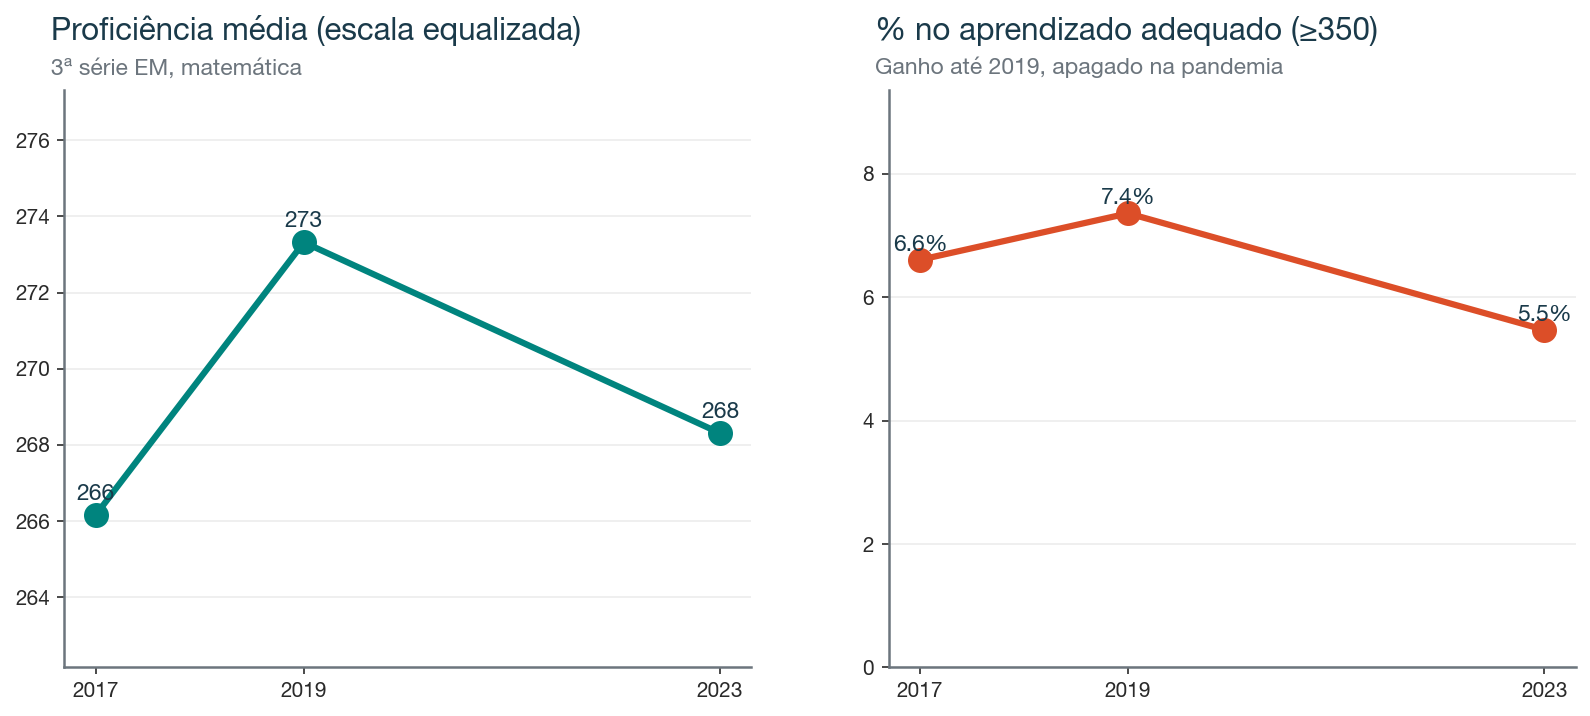
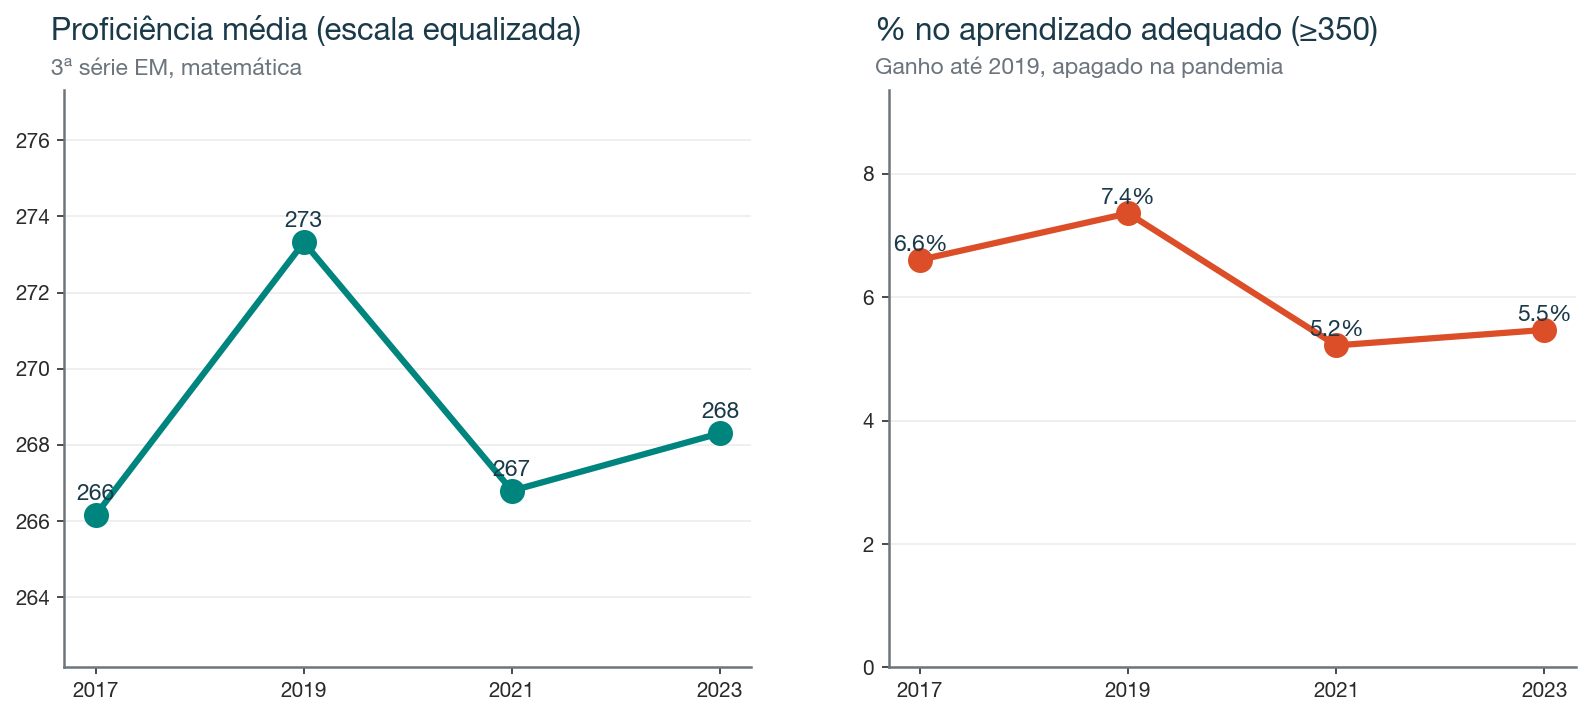
Inclui SAEB 2021 (4º censo): pipeline, figuras e artigo atualizados
- 2021 baixado (nome próprio no host) e consolidado: N=1.399.839, corr 0,95.
  Schema = 2019 (;, nomes novos, item série EM=12) + INSE presente.
- Série temporal completa (4 pontos): proficiência 266→273→267→268; adequado
  6,6→7,4→5,2→5,5%. 2019 pico, 2021 fundo da pandemia, 2023 sem recuperação.
- Figuras de evolução regeneradas; artigo (Cap 1) atualizado para os 4 censos.
- DECISOES/PROJECT atualizados.

diff --git a/outputs/site/index.html b/outputs/site/index.html
@@ -3,7 +3,7 @@
 <head>
 <meta charset="UTF-8">
 <meta name="viewport" content="width=device-width, initial-scale=1.0">
-<title>A matemática que falta, no censo: SAEB 2017–2023</title>
+<title>A matemática que falta, no censo: SAEB 2017–2023 (4 censos)</title>
 <link rel="preconnect" href="https://fonts.googleapis.com">
 <link href="https://fonts.googleapis.com/css2?family=Inter:wght@400;500;600;700;800;900&display=swap" rel="stylesheet">
 <style>
@@ -44,7 +44,7 @@
 
 <main class="wrap">
 
-<p>Três edições censitárias, mesma metodologia: <strong>2017, 2019 e 2023</strong>, cerca de 1,5 milhão de concluintes do EM em cada uma, com prova de matemática válida. Para cada aluno, escoreamos as respostas item a item, ligamos cada item à habilidade que ele mede (o descritor da Matriz de Referência) e estratificamos pela proficiência. O método é o mesmo do artigo do ENEM. As decisões estão em <code>DECISOES.md</code>.</p>
+<p>Quatro edições censitárias, mesma metodologia: <strong>2017, 2019, 2021 e 2023</strong>, cerca de 1,4 a 1,5 milhão de concluintes do EM em cada uma, com prova de matemática válida. Para cada aluno, escoreamos as respostas item a item, ligamos cada item à habilidade que ele mede (o descritor da Matriz de Referência) e estratificamos pela proficiência. O método é o mesmo do artigo do ENEM. As decisões estão em <code>DECISOES.md</code>.</p>
 
 <hr>
 
@@ -57,7 +57,7 @@
   <figure><img src="figures/fig0_evolucao.png" alt="Evolução da proficiência e do % adequado">
     <figcaption>Proficiência média e percentual no aprendizado adequado (≥350), 2017–2023. Escala SAEB equalizada.</figcaption></figure>
 
-  <p>A proficiência média foi <strong>266 (2017) → 273 (2019) → 268 (2023)</strong>. O aprendizado adequado (≥350) subiu de 6,6% para 7,4% até 2019 e <strong>caiu para 5,5% em 2023</strong>, abaixo de onde estava em 2017. Houve um ganho pequeno na segunda metade da década passada, e a pandemia o apagou.</p>
+  <p>A proficiência média foi <strong>266 (2017) → 273 (2019) → 267 (2021) → 268 (2023)</strong>. O aprendizado adequado (≥350) subiu de 6,6% para 7,4% até 2019, <strong>despencou para 5,2% em 2021</strong> (o fundo da pandemia) e mal se recuperou em 2023 (5,5%), abaixo de onde estava em 2017. Houve um ganho pequeno na segunda metade da década passada, e a pandemia o apagou.</p>
 
   <figure><img src="figures/fig0b_estratos_tempo.png" alt="Composição por faixa de proficiência ao longo do tempo">
     <figcaption>Distribuição por faixa de proficiência. A faixa abaixo de 275 volta a 58% em 2023.</figcaption></figure>
@@ -87,7 +87,7 @@
     <li><strong>Fora do estrato Alto, quase nada passa de 50%.</strong> No Médio, só Leitura de Dados (75%) e Porcentagem (55%) cruzam a metade.</li>
     <li>Mesmo o topo tem buracos: o Alto acerta Leitura de Dados em 92%, mas Estatística em 45% e Medida em 58%.</li>
   </ul>
-  <p>A <strong>forma</strong> desse perfil é estável nas três edições (Leitura de Dados sempre na frente, abstração sempre atrás). Os níveis absolutos por habilidade não são comparáveis entre anos, porque a composição de itens de cada prova muda; por isso o eixo temporal fica na proficiência equalizada, e o perfil de habilidade é lido dentro de cada ano.</p>
+  <p>A <strong>forma</strong> desse perfil é estável nas quatro edições (Leitura de Dados sempre na frente, abstração sempre atrás). Os níveis absolutos por habilidade não são comparáveis entre anos, porque a composição de itens de cada prova muda; por isso o eixo temporal fica na proficiência equalizada, e o perfil de habilidade é lido dentro de cada ano.</p>
 </section>
 
 <hr>
@@ -135,13 +135,13 @@
 </section>
 
 <div class="nota">
-  <strong>Nota metodológica.</strong> Edições censitárias 2017/2019/2023 (mesma metodologia; 2013/2015 da era Prova Brasil, amostral, ficaram de fora). Escore por item via gabarito; habilidade pelo descritor oficial (single-loading; sem o entrelaçamento multi-habilidade do ENEM). Estratos: Chute (taxa &lt; 0,20), e faixas de proficiência com Alto ≥ 350 (aprendizado adequado). Não há vetor de habilidade por aluno (desenho BIB, ~26 de 91 itens por aluno); toda análise de habilidade é agregada. Validação: correlação entre acerto e proficiência de 0,88 a 0,95 nos três anos. Detalhes e pendências em <code>DECISOES.md</code>.
+  <strong>Nota metodológica.</strong> Edições censitárias 2017/2019/2021/2023 (mesma metodologia; 2013/2015 da era Prova Brasil, amostral, ficaram de fora). Escore por item via gabarito; habilidade pelo descritor oficial (single-loading; sem o entrelaçamento multi-habilidade do ENEM). Estratos: Chute (taxa &lt; 0,20), e faixas de proficiência com Alto ≥ 350 (aprendizado adequado). Não há vetor de habilidade por aluno (desenho BIB, ~26 de 91 itens por aluno); toda análise de habilidade é agregada. Validação: correlação entre acerto e proficiência de 0,88 a 0,95 nos quatro anos. Detalhes e pendências em <code>DECISOES.md</code>.
 </div>
 
 </main>
 
 <footer><div class="wrap">
-  Fontes: Microdados SAEB (INEP), 2017/2019/2023. Pipeline em <code>scripts/</code>. Projeto independente. Rascunho v1.
+  Fontes: Microdados SAEB (INEP), 2017/2019/2021/2023. Pipeline em <code>scripts/</code>. Projeto independente. Rascunho v1.
 </div></footer>
 
 </body>

diff --git a/scripts/build_consolidated.py b/scripts/build_consolidated.py
@@ -43,6 +43,10 @@ SCHEMA = {
         aluno='DADOS/TS_ALUNO_34EM.csv', sep=';',
         item='DADOS/TS_ITEM.csv', item_sep=';', item_serie_em=12,
         col=_COMMON_NEW, item_col=_ITEMCOL_NEW, inse=None),
+    2021: dict(
+        aluno='DADOS/TS_ALUNO_34EM.csv', sep=';',
+        item='DADOS/TS_ITEM.csv', item_sep=';', item_serie_em=12,
+        col=_COMMON_NEW, item_col=_ITEMCOL_NEW, inse='INSE_ALUNO'),
     2023: dict(
         aluno='MICRODADOS_SAEB_2023/DADOS/TS_ALUNO_34EM.csv', sep=';',
         item='MICRODADOS_SAEB_2023/DADOS/TS_ITEM.csv', item_sep=';', item_serie_em=3,

diff --git a/scripts/figuras.py b/scripts/figuras.py
@@ -17,7 +17,7 @@ apply_style()
 
 OUT = ROOT / 'outputs' / 'site' / 'figures'
 OUT.mkdir(parents=True, exist_ok=True)
-ANOS = [2017, 2019, 2023]
+ANOS = [2017, 2019, 2021, 2023]
 df = pd.read_parquet(ROOT / 'data' / 'consolidated_saeb_2023_em.parquet')  # cross-section canônica
 print(f'{len(df):,} alunos (2023)')
 

diff --git a/DECISOES.md b/DECISOES.md
@@ -5,10 +5,10 @@ Tudo aqui é reversível e está parametrizado nos scripts em `scripts/`. Pontos
 marcados com ⚠️ são escolhas que valem revisão.
 
 ## 0. Escopo de edições
-- Edições usadas: **2017, 2019, 2023** (censo EM, mesma metodologia).
-- **Excluídas 2013/2015** (era Prova Brasil, EM amostral, estrutura incompatível). 2021 não estava no host padrão do INEP (URL a resolver).
-- Schemas diferem entre anos (separador `,` em 2017 vs `;`; nomes "Prova Brasil" em 2017; código de série EM no banco de itens = 12 em 2017/2019 e 3 em 2023; INSE só em 2023). Absorvido pelo dicionário `SCHEMA` em `scripts/build_consolidated.py`.
-- **Validação**: correlação acerto×proficiência = 0,93 (2017), 0,95 (2019), 0,88 (2023), confirmando o escoreamento e o mapeamento de blocos em todos os schemas.
+- Edições usadas: **2017, 2019, 2021, 2023** (4 censos EM, mesma metodologia).
+- **Excluídas 2013/2015** (era Prova Brasil, EM amostral, estrutura incompatível). 2021 estava com nome próprio no host (`microdados_saeb_2021_ensino_fundamental_e_medio.zip`).
+- Schemas diferem entre anos (separador `,` em 2017 vs `;`; nomes "Prova Brasil" em 2017; código de série EM no banco de itens = 12 em 2017/2019/2021 e 3 em 2023; INSE em 2021 e 2023, ausente em 2017/2019). Absorvido pelo dicionário `SCHEMA` em `scripts/build_consolidated.py`.
+- **Validação**: correlação acerto×proficiência = 0,93 (2017), 0,95 (2019), 0,95 (2021), 0,88 (2023), confirmando o escoreamento e o mapeamento de blocos em todos os schemas.
 - ⚠️ Descritores `D36`/`D37` (e um `X` de item anulado) aparecem em 2017/2019 e não estão no de-para (vão para OUTRO, ~2 itens/ano fora da agregação por T; contam na taxa). Estender o de-para se quiser.
 
 ## ⚠️ Comparabilidade temporal (importante)

diff --git a/PROJECT.md b/PROJECT.md
@@ -9,7 +9,7 @@ Projeto independente sobre **matemática no SAEB, Ensino Médio, ~10 anos**. Rep
 | 2013 / 2015 | amostral (Prova Brasil) | **fora** (estrutura incompatível) |
 | 2017 | censo | **consolidado** (N=1.456.325, corr taxa×prof 0,93) |
 | 2019 | censo | **consolidado** (N=1.514.938, corr 0,95) |
-| 2021 | censo | URL não achada no host padrão (pendente) |
+| 2021 | censo | **consolidado** (N=1.399.839, corr 0,95) |
 | 2023 | censo | **consolidado** (N=1.525.957, corr 0,88) |
 
 URL: `https://download.inep.gov.br/microdados/microdados_saeb_YYYY.zip`.
@@ -20,13 +20,12 @@ URL: `https://download.inep.gov.br/microdados/microdados_saeb_YYYY.zip`.
 3. **Artigo** em `outputs/site/`.
 
 ## Onde estamos
-- **3 censos consolidados (2017, 2019, 2023)**, scorer generalizado por schema, validado (corr 0,88–0,95).
-- **Evolução (proficiência equalizada)**: média 266 → 273 → 268; adequado (≥350) 6,6% → 7,4% → **5,5%**. Ganho até 2019 apagado pela pandemia. Estagnação na década.
+- **4 censos consolidados (2017, 2019, 2021, 2023)**, scorer generalizado por schema, validado (corr 0,88–0,95).
+- **Evolução (proficiência equalizada)**: média 266 → 273 → 267 → 268; adequado (≥350) 6,6% → 7,4% → 5,2% → **5,5%**. Pico em 2019, fundo da pandemia em 2021, sem recuperação real. Estagnação na década.
 - **Cross-section 2023**: Leitura de Dados única habilidade >40%; fora do Alto quase nada passa de 50%; 67% das escolas no segmento Baixa; gradiente socio presente, piso baixo para todos.
 - **Artigo v1** em `outputs/site/index.html` (5 capítulos, dimensão temporal no Cap 1). 9 figuras.
 
 ## A seguir
-1. Resolver a URL do **2021** (completaria 4 censos).
 2. Estender o de-para para **D36/D37**.
 3. Refinar cortes de estrato pelos níveis oficiais da escala.
 4. Frente paralela: **confiabilidade do dado** (detecção de anomalia), mesmo scorer + Censo Escolar.